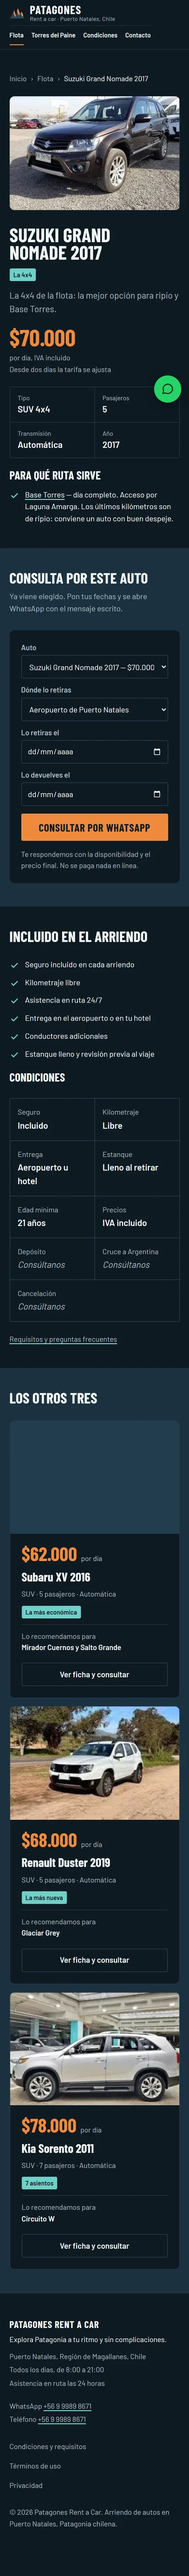
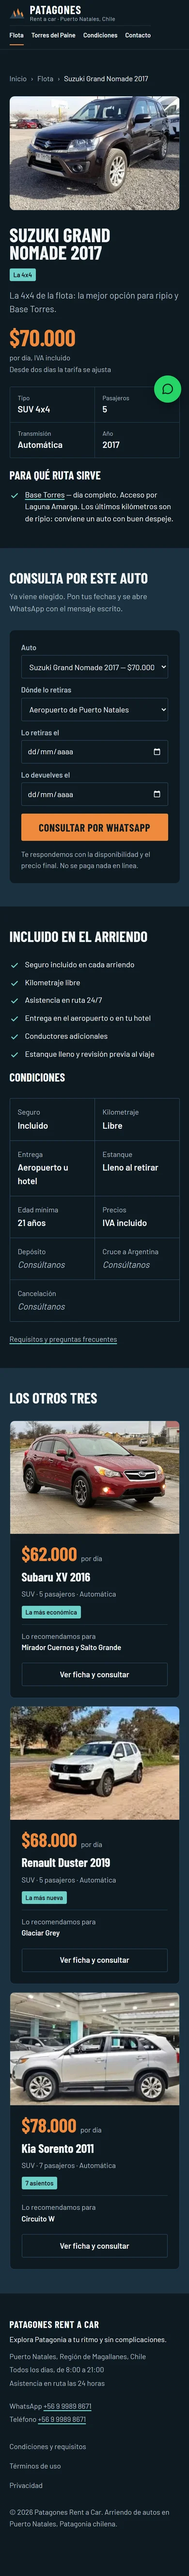
docs: deja registrada la decisión del PO sobre la foto del Sorento
El PO descartó la foto del Kia Sorento en el servicentro: se ven dos personas
dentro del auto, una aparentemente menor de edad.

No hubo nada que reemplazar ni que borrar. El Sorento ya usaba la otra foto
disponible, la del estacionamiento, sin personas y con el mismo tratamiento 3:2
que los otros tres autos, desde el commit 790d61e. La del servicentro nunca se
copió al repositorio: solo se leyó desde ../img para identificar de qué auto
era. Verificado sobre los archivos versionados, sobre los no versionados del
árbol de trabajo y sobre dist/: las cuatro imágenes del Sorento que se publican
derivan del recorte 650x433 del estacionamiento.

- Se anota la decisión y su verificación en el informe, y queda como pendiente
  del dueño una foto del Sorento tomada en la zona: la que se usa está en un
  estacionamiento subterráneo, y la única que había en Patagonia es la
  descartada.
- Se deja la advertencia en scripts/procesar-fotos.mjs, que es donde alguien
  podría volver a incorporarla sin enterarse al llegar fotos nuevas.
- Se borran public/images/ y public/images/flota/, que quedaron vacías desde que
  los originales se movieron a src/fotos-originales/.

Aparte, revisando la ficha para confirmar qué foto sirve el sitio, apareció otro
hueco huérfano: las cuatro especificaciones caían de a 3 columnas y dejaban una
celda vacía con cara de dato faltante. Pasan a 2x2, y a 1x4 desde 1200 px.

Changed region(s): [[0.0308, 0.5295, 0.9538, 0.623]]

diff --git a/src/styles/global.css b/src/styles/global.css
@@ -711,9 +711,13 @@ ol {
   }
 }
 
+/* Son cuatro datos: tipo, pasajeros, transmisión y año. Las columnas van fijas
+   y no en auto-fit, porque 4 en 2 o en 4 columnas siempre llenan las filas;
+   con auto-fit caían de a 3 y dejaban una celda vacía con cara de dato que
+   falta. */
 .especificaciones {
   display: grid;
-  grid-template-columns: repeat(auto-fit, minmax(min(120px, 100%), 1fr));
+  grid-template-columns: repeat(2, minmax(0, 1fr));
   gap: 1px;
   background: var(--granito-alto);
   border: 1px solid var(--granito-alto);
@@ -734,6 +738,14 @@ ol {
 .especificaciones dd {
   font-size: var(--t-l);
   font-weight: 600;
+}
+
+/* Recién a este ancho la columna de la ficha da para cuatro en fila sin que
+   "Transmisión / Automática" quede apretado. */
+@media (min-width: 1200px) {
+  .especificaciones {
+    grid-template-columns: repeat(4, minmax(0, 1fr));
+  }
 }
 
 .precio-ficha {

diff --git a/docs/propuestas/propuesta-a.md b/docs/propuestas/propuesta-a.md
@@ -78,16 +78,32 @@ escrito el recorte de cada una para cuando lleguen fotos nuevas.
 | `14.11.22 (1).jpeg` (1284×946) | Subaru XV junto al letrero de Puerto Natales, con el fiordo y la cordillera | **Portada** (16:9) y imagen para redes de todo el sitio |
 | `14.11.22.jpeg` (1284×364) | Panorámica del mismo Subaru en la costanera | Procesada y disponible en `src/assets/portada/`, **sin usar todavía** |
 | `14.12.48.jpeg` (716×1600) | Kia Sorento de perfil, captura de galería con barras negras | **Tarjeta y ficha del Sorento**. Reemplaza a la que tenía marca de agua |
-| `14.15.50.jpeg` (716×1600) | Kia Sorento de frente, en un servicentro | **No la usé** — ver abajo |
+| `14.15.50.jpeg` (716×1600) | Kia Sorento de frente, en un servicentro | **Descartada por el PO** — ver abajo |
 | `subaru-xv.jpg` (del repo) | Subaru de frente, en Puerto Natales | **Tarjeta y ficha del Subaru** |
 | `suzuki-grand-nomade.jpg` (del repo) | Suzuki en un patio de autos | Tarjeta y ficha del Suzuki (es la única que hay) |
 | `renault-duster.jpg` (del repo) | Duster, 300×168 | Tarjeta y ficha del Duster (es la única que hay) |
 
-**Por qué no usé la cuarta.** Tiene **dos personas identificables dentro del auto** (una
+**La cuarta foto, descartada.** Tiene **dos personas identificables dentro del auto** (una
 mujer y un niño en el asiento del acompañante) y la **patente legible**. En la foto del
 Subaru el dueño tapó la patente él mismo, así que esa es su propia convención. No publico
-caras de personas privadas sin que alguien lo autorice: la dejé fuera y queda a decisión
-del PO. Es, eso sí, la única foto del Sorento tomada en la zona.
+caras de personas privadas sin que alguien lo autorice, así que la dejé fuera y lo planteé
+al PO.
+
+**El PO la descartó**: no se puede usar porque se ven dos personas dentro del auto, una
+aparentemente menor de edad. Queda así:
+
+- El Sorento usa la **otra foto disponible, la del estacionamiento, sin personas**, con el
+  mismo tratamiento 3:2 que los otros tres autos. Ya era la que estaba en uso desde el
+  primer commit de fotos, de modo que no hubo nada que reemplazar.
+- **No hay ninguna copia de la del servicentro en el repositorio.** Nunca se copió: solo se
+  leyó desde `../img` para identificar de qué auto era. No aparece en
+  `scripts/procesar-fotos.mjs`, ni en `src/assets/`, ni en `src/fotos-originales/`, ni en
+  `public/`, ni en la salida compilada. Verificado sobre los archivos versionados y también
+  sobre los no versionados del árbol de trabajo.
+- El original sigue intacto en `../img`, que es solo lectura y no forma parte del repo.
+
+El costo de descartarla es que era la única foto del Sorento tomada en la zona: la que se
+usa está tomada en un estacionamiento subterráneo. Queda como pendiente del dueño.
 
 **Me desvié de una sugerencia del PO.** Las fotos quedaron todas en **3:2 y no en 4:3**. La
 banda útil del Sorento, una vez quitadas las barras negras de la captura, mide 716×433; un
@@ -121,6 +137,8 @@ navegador en es-CL (si no, los campos de fecha salen en `mm/dd/yyyy`):
   además no parece tomada en la zona. En la tarjeta se amplía 1,14× y aguanta, pero en la
   ficha se nota.
 - Foto del Suzuki fuera del patio de autos. La actual muestra otros autos de fondo.
+- **Foto del Kia Sorento tomada en la zona.** La que se usa está en un estacionamiento
+  subterráneo; la única que había en Patagonia la descartó el PO por mostrar a dos personas.
 - **Criterio sobre las patentes.** En la foto del Subaru está tapada y en la del Suzuki se
   lee. Conviene que el dueño decida una sola regla y la aplique a todas.
 - Verificar el punto de salida de la navegación al Glaciar Grey.
